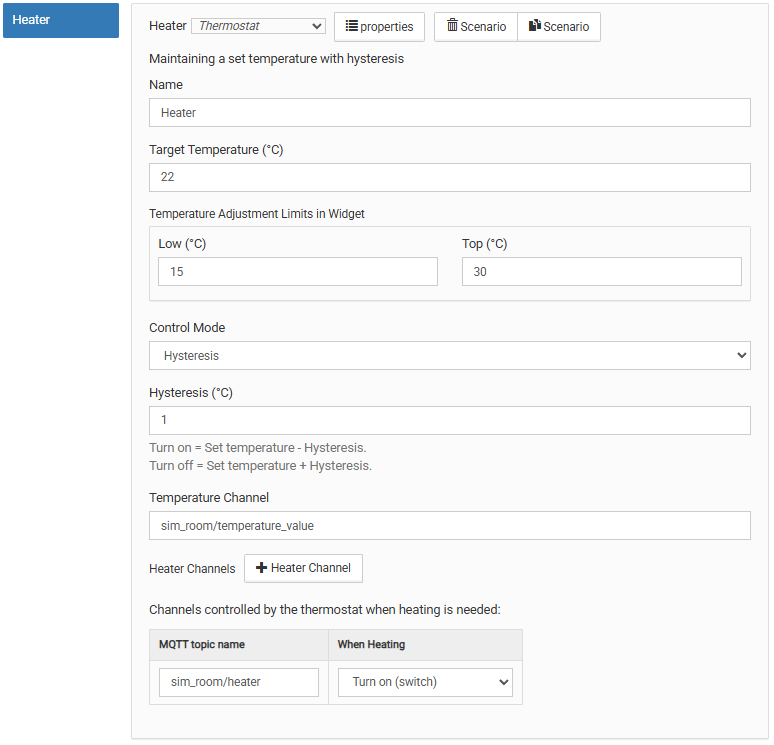
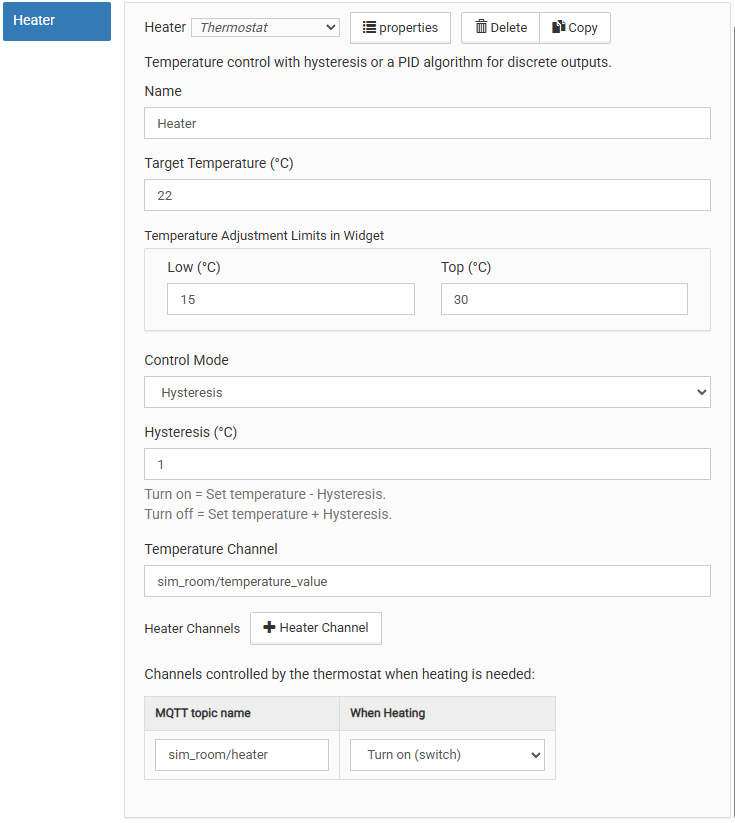
feat: update thermostat scenario pid mode translations (#79)
* feat: update thermostat scenario pid mode translations

* update changelog and screenshots

* fix thermostatScenarioDescription

* update screenshots

---------

diff --git a/scenarios/thermostat/thermostat.mod.js b/scenarios/thermostat/thermostat.mod.js
@@ -57,7 +57,7 @@ var thermostatActionsTable = {
  * @property {number} hysteresis - Hysteresis value (switching range, °C)
  *
  * PID mode (controlMode === 'pid'):
- * @property {Object} pidSettings - PID + PWM settings object
+ * @property {Object} pidSettings - PID settings object
  * @property {number} pidSettings.deadBand - Dead band around setpoint (°C)
  * @property {number} pidSettings.kp - Proportional gain
  * @property {number} pidSettings.ki - Integral gain
@@ -289,7 +289,7 @@ ThermostatScenario.prototype.validateCfg = function (cfg) {
         cfg.pidSettings.pwmPeriodSec <= 0 ||
         cfg.pidSettings.pwmPeriodSec % 1 !== 0) {
       log.error(
-        'Thermostat validation error: PWM period must be an integer > 0, but got "{}"',
+        'Thermostat validation error: Cycle period must be an integer > 0, but got "{}"',
         cfg.pidSettings.pwmPeriodSec
       );
       isPidValid = false;
@@ -319,7 +319,7 @@ ThermostatScenario.prototype.validateCfg = function (cfg) {
     }
     if (isPidValid && cfg.pidSettings.pwmPeriodSec <= (cfg.pidSettings.minOnTimeSec + cfg.pidSettings.minOffTimeSec)) {
       log.error(
-        'Thermostat validation error: PWM period ({}) must be greater than min ON time ({}) + min OFF time ({}) = {}',
+        'Thermostat validation error: Cycle period ({}) must be greater than min ON time ({}) + min OFF time ({}) = {}',
         cfg.pidSettings.pwmPeriodSec,
         cfg.pidSettings.minOnTimeSec,
         cfg.pidSettings.minOffTimeSec,
@@ -978,7 +978,7 @@ function createHysteresisRules(self, cfg) {
 }
 
 /**
- * Creates rules for PID + PWM mode
+ * Creates rules for PID mode
  * @param {ThermostatScenario} self - Reference to the ThermostatScenario instance
  * @param {ThermostatConfig} cfg - Configuration object
  * @returns {boolean} True if all rules created successfully

diff --git a/scenarios/thermostat/README.md b/scenarios/thermostat/README.md
@@ -4,7 +4,7 @@
 
 Данный сценарий позволяет управлять нагревателями в двух режимах:
 - Гистерезис — двухпозиционное регулирование с заданным гистерезисом;
-- PID + ШИМ — пропорционально-интегрально-дифференциальное регулирование с широтно-импульсной модуляцией.
+- ПИД — пропорционально-интегрально-дифференциальное регулирование с широтно-импульсной модуляцией.
 
 Конфигуратор сценария в режиме Гистерезис:
 
@@ -14,7 +14,7 @@
          alt="Scenario cfg view" />
 </p>
 
-Конфигуратор сценария в режиме PID + ШИМ:
+Конфигуратор сценария в режиме ПИД:
 
 <p align="center">
     <img width="400"
@@ -39,17 +39,17 @@
 - Включится при достижении 20 °C = (22 целевая − 2 гистерезис)
 - Выключится при достижении 24 °C = (22 целевая + 2 гистерезис)
 
-### Режим PID + ШИМ (pid)
+### Режим ПИД (pid)
 В этом режиме используется ПИД-регулятор, который непрерывно рассчитывает необходимую
 мощность нагрева (0–100%). Мощность преобразуется во временные интервалы включения и
-выключения внутри фиксированного периода ШИМ.
+выключения внутри фиксированного периода.
 
 #### Дополнительные настройки PID-режима:
 
 - deadBand — зона нечувствительности вокруг уставки. Внутри неё П-, И- и Д-составляющие ослабляются, чтобы избежать микропереключений.
 - pidCoefficients (Kp, Ki, Kd) — коэффициенты регулятора.
-- pwmPeriodSec — период ШИМ в секундах (целое число).
-- pidRecalcCycles — как часто пересчитывать PID (каждые N циклов ШИМ).
+- pwmPeriodSec — период работы в секундах (целое число).
+- pidRecalcCycles — как часто пересчитывать PID (каждые N циклов работы).
 - minOnTimeSec / minOffTimeSec — минимальное время включения и выключения за период для защиты реле.
 
 Пример: при мощности 70%, периоде 60 с и minOffTimeSec = 5 с, актуатор будет включён 42 с и выключен 18 с (но с учётом ограничений может быть скорректировано).
@@ -70,7 +70,7 @@
          alt="Virtual device view" />
 </p>
 
-Создаваемое сценарием виртуальное устройство в режиме PID + ШИМ:
+Создаваемое сценарием виртуальное устройство в режиме ПИД:
 
 <p align="center">
     <img width="400"
@@ -135,9 +135,9 @@
 Дополнительные контролы в режиме PID:
 - Мощность (output_power) — выход ПИД-регулятора в процентах (0–100%), только для чтения.
   Пример: wbsc_bathroom__heat_floor/output_power
-- Длительности цикла (output_timing) — строка вида "on / off", показывающая расчётное время включения и выключения в текущем периоде ШИМ (в секундах). Только для чтения.
+- Длительности цикла (output_timing) — строка вида "on / off", показывающая расчётное время включения и выключения в текущем периоде работы (в секундах). Только для чтения.
   Пример: wbsc_bathroom__heat_floor/output_timing
-- Сброс ПИД (pid_reset) — кнопка для обнуления интегральной суммы ПИД-регулятора и перезапуска цикла ШИМ.
+- Сброс ПИД (pid_reset) — кнопка для обнуления интегральной суммы ПИД-регулятора и перезапуска цикла.
   Пример: wbsc_bathroom__heat_floor/pid_reset
 
 ## Использование модуля
@@ -188,8 +188,8 @@
 Параметры для режима `pid` (объект `pidSettings`):
 1. `deadBand`	{number} Зона нечувствительности (≥0).
 2. `pidCoefficients` {object} Объект с полями kp, ki, kd (все ≥0).
-3. `pwmPeriodSec` {number} Период ШИМ в секундах (целое >0, должен быть > minOffTimeSec).
-4. `pidRecalcCycles` {number}	Пересчёт PID каждые N циклов ШИМ (целое ≥1).
+3. `pwmPeriodSec` {number} Период работы в секундах (целое >0, должен быть > minOffTimeSec).
+4. `pidRecalcCycles` {number}	Пересчёт PID каждые N циклов работы (целое ≥1).
 5. `minOnTimeSec`	{number} Минимальное время включения за период (≥0).
 6. `minOffTimeSec` {number} Минимальное время выключения за период (≥0).
 

diff --git a/scenarios/thermostat/dev-note-arc42.md b/scenarios/thermostat/dev-note-arc42.md
@@ -6,12 +6,12 @@
 Сценарий **Thermostat** поддерживает заданную температуру с помощью одного из двух алгоритмов:
 
 - Гистерезис (двухпозиционное регулирование),
-- PID + ШИМ (пропорционально-интегрально-дифференциальный регулятор с широтно-импульсной модуляцией).
+- PID (пропорционально-интегрально-дифференциальный регулятор).
 
 Управление осуществляется одним или несколькими актуаторами (реле, клапаны и т.п.).
 
 ### 1.2. Функциональные требования
-- Поддержание целевой температуры с настраиваемым гистерезисом или с помощью PID‑регулятора и ШИМ
+- Поддержание целевой температуры с настраиваемым гистерезисом или с помощью PID‑регулятора
 - Управление массивом актуаторов (один или несколько)
 - Инверсия логики управления для отдельных актуаторов (`setEnable`/`setDisable`)
 - Сохранение целевой температуры в persistent storage между перезапусками
@@ -97,19 +97,19 @@ wb-scenarios.conf         -->  scenario-init-main.js
 - При `curTemp <= lowerLimit` → включить нагрев
 - В мёртвой зоне → сохранить текущее состояние (без изменений)
 
-2) PID + ШИМ (pid)
+2) PID (pid)
 
 Используется пропорционально-интегрально-дифференциальный регулятор, выход которого (0–100%)
-преобразуется в длительность включения актуатора внутри фиксированного периода ШИМ.
+преобразуется в длительность включения актуатора внутри фиксированного периода.
 
 Все параметры PID-режима сгруппированы в объекте `pidSettings`:
 - deadBand — зона нечувствительности (°C). Внутри неё П-, И- и Д-составляющие умножаются на 0.1 для предотвращения микропереключений.
 - pidCoefficients (Kp, Ki, Kd) — коэффициенты регулятора (вложенный объект).
-- pwmPeriodSec — период ШИМ (целое число секунд). Должен быть больше minOffTimeSec.
+- pwmPeriodSec — период цикла (целое число секунд). Должен быть больше minOffTimeSec.
 - pidRecalcCycles — PID пересчитывается не каждый цикл, а раз в N периодов (экономия ресурсов, допускается инерционность тепловых процессов).
 - minOnTimeSec / minOffTimeSec — минимальное время включения и выключения за период. Защищает реле от слишком коротких импульсов (например, при 100% мощности гарантируется пауза minOffTimeSec).
 
-Алгоритм цикла ШИМ (runPwmCycle):
+Алгоритм цикла (runPwmCycle):
 
 1) Если наступило время пересчёта PID (pwmCycleCount === 0), вычислить выход.
 2) Перевести выход (%) в длительность включения onTime = (pidOutput / 100) * pwmPeriodSec.
@@ -264,7 +264,7 @@ ThermostatScenario extends ScenarioBase
 | `current_temperature` | value, readonly | Текущее показание датчика |
 | `actuator_status` | switch, readonly | Общий статус нагрева (логический) |
 | `output_power` | value, readonly | только PID,	Выход ПИД-регулятора (0–100%) |
-| `output_timing` | text, readonly | только PID, Длительности вкл/выкл в текущем ШИМ-цикле, формат "on / off" (сек) |
+| `output_timing` | text, readonly | только PID, Длительности вкл/выкл в текущем цикле, формат "on / off" (сек) |
 | `pid_reset` | pushbutton | только PID, Кнопка сброса интегральной суммы ПИД |
 
 Per-actuator VD контролы НЕ создаются (решение: не засорять интерфейс).
